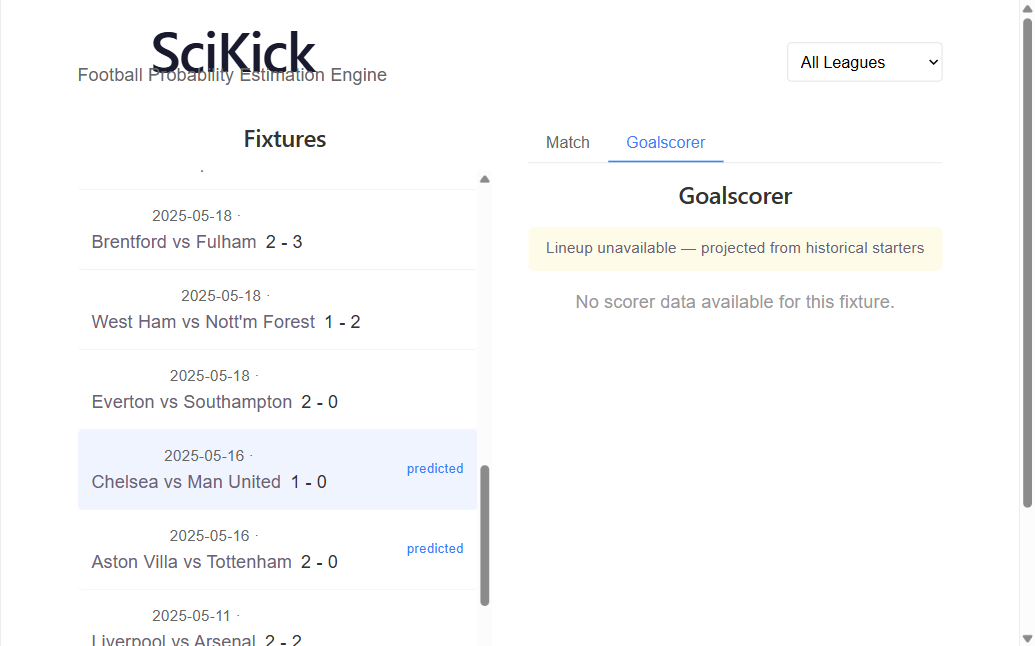
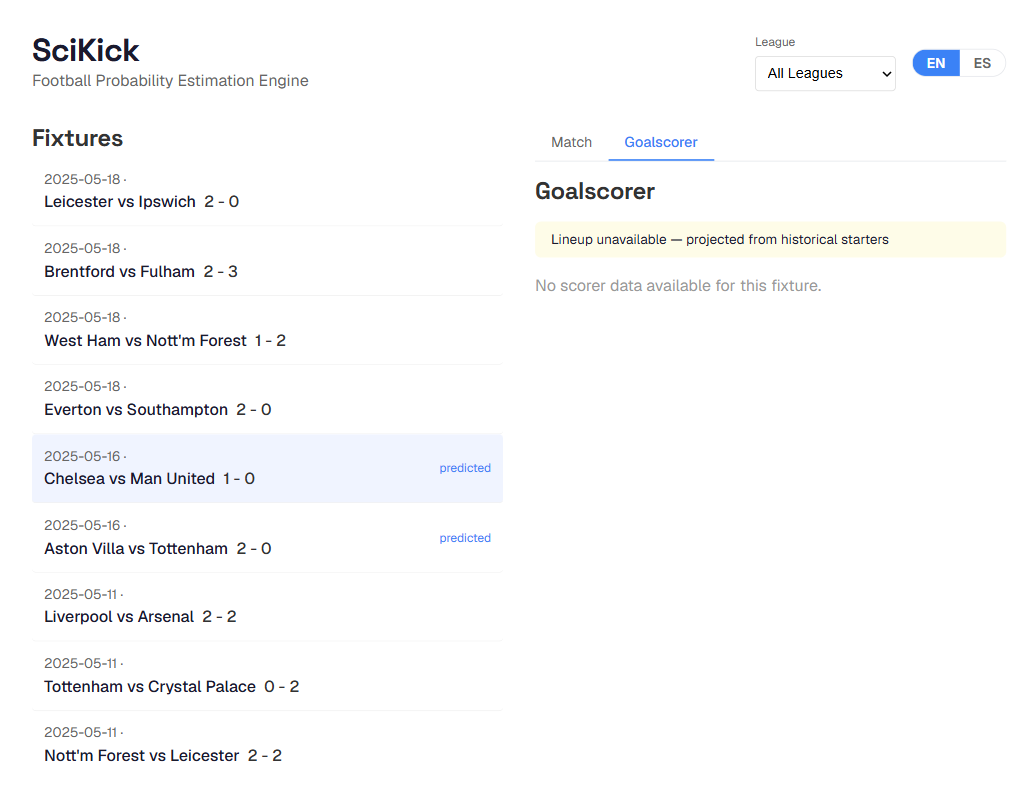
docs: refresh screenshots for new UI theme and ES/EN support

diff --git a/README.md b/README.md
@@ -20,6 +20,10 @@ Goalscorer view (player-level anytime scorer probabilities):
 
 ![SciKick goalscorer](docs/screenshots/goalscorer.png)
 
+ES/EN language toggle (persisted via localStorage):
+
+![SciKick ES](docs/screenshots/dashboard-es.png)
+
 ## Why it exists
 
 Most football "probability" tools are opaque black boxes. SciKick is the opposite: every estimate comes from a reproducible pipeline — Elo ratings, team form, xG enrichment, and a Dixon-Coles score matrix — and is **calibrated and reported** so the probabilities mean what they claim. Built for data people who want to *understand* a model, not just stare at it.
